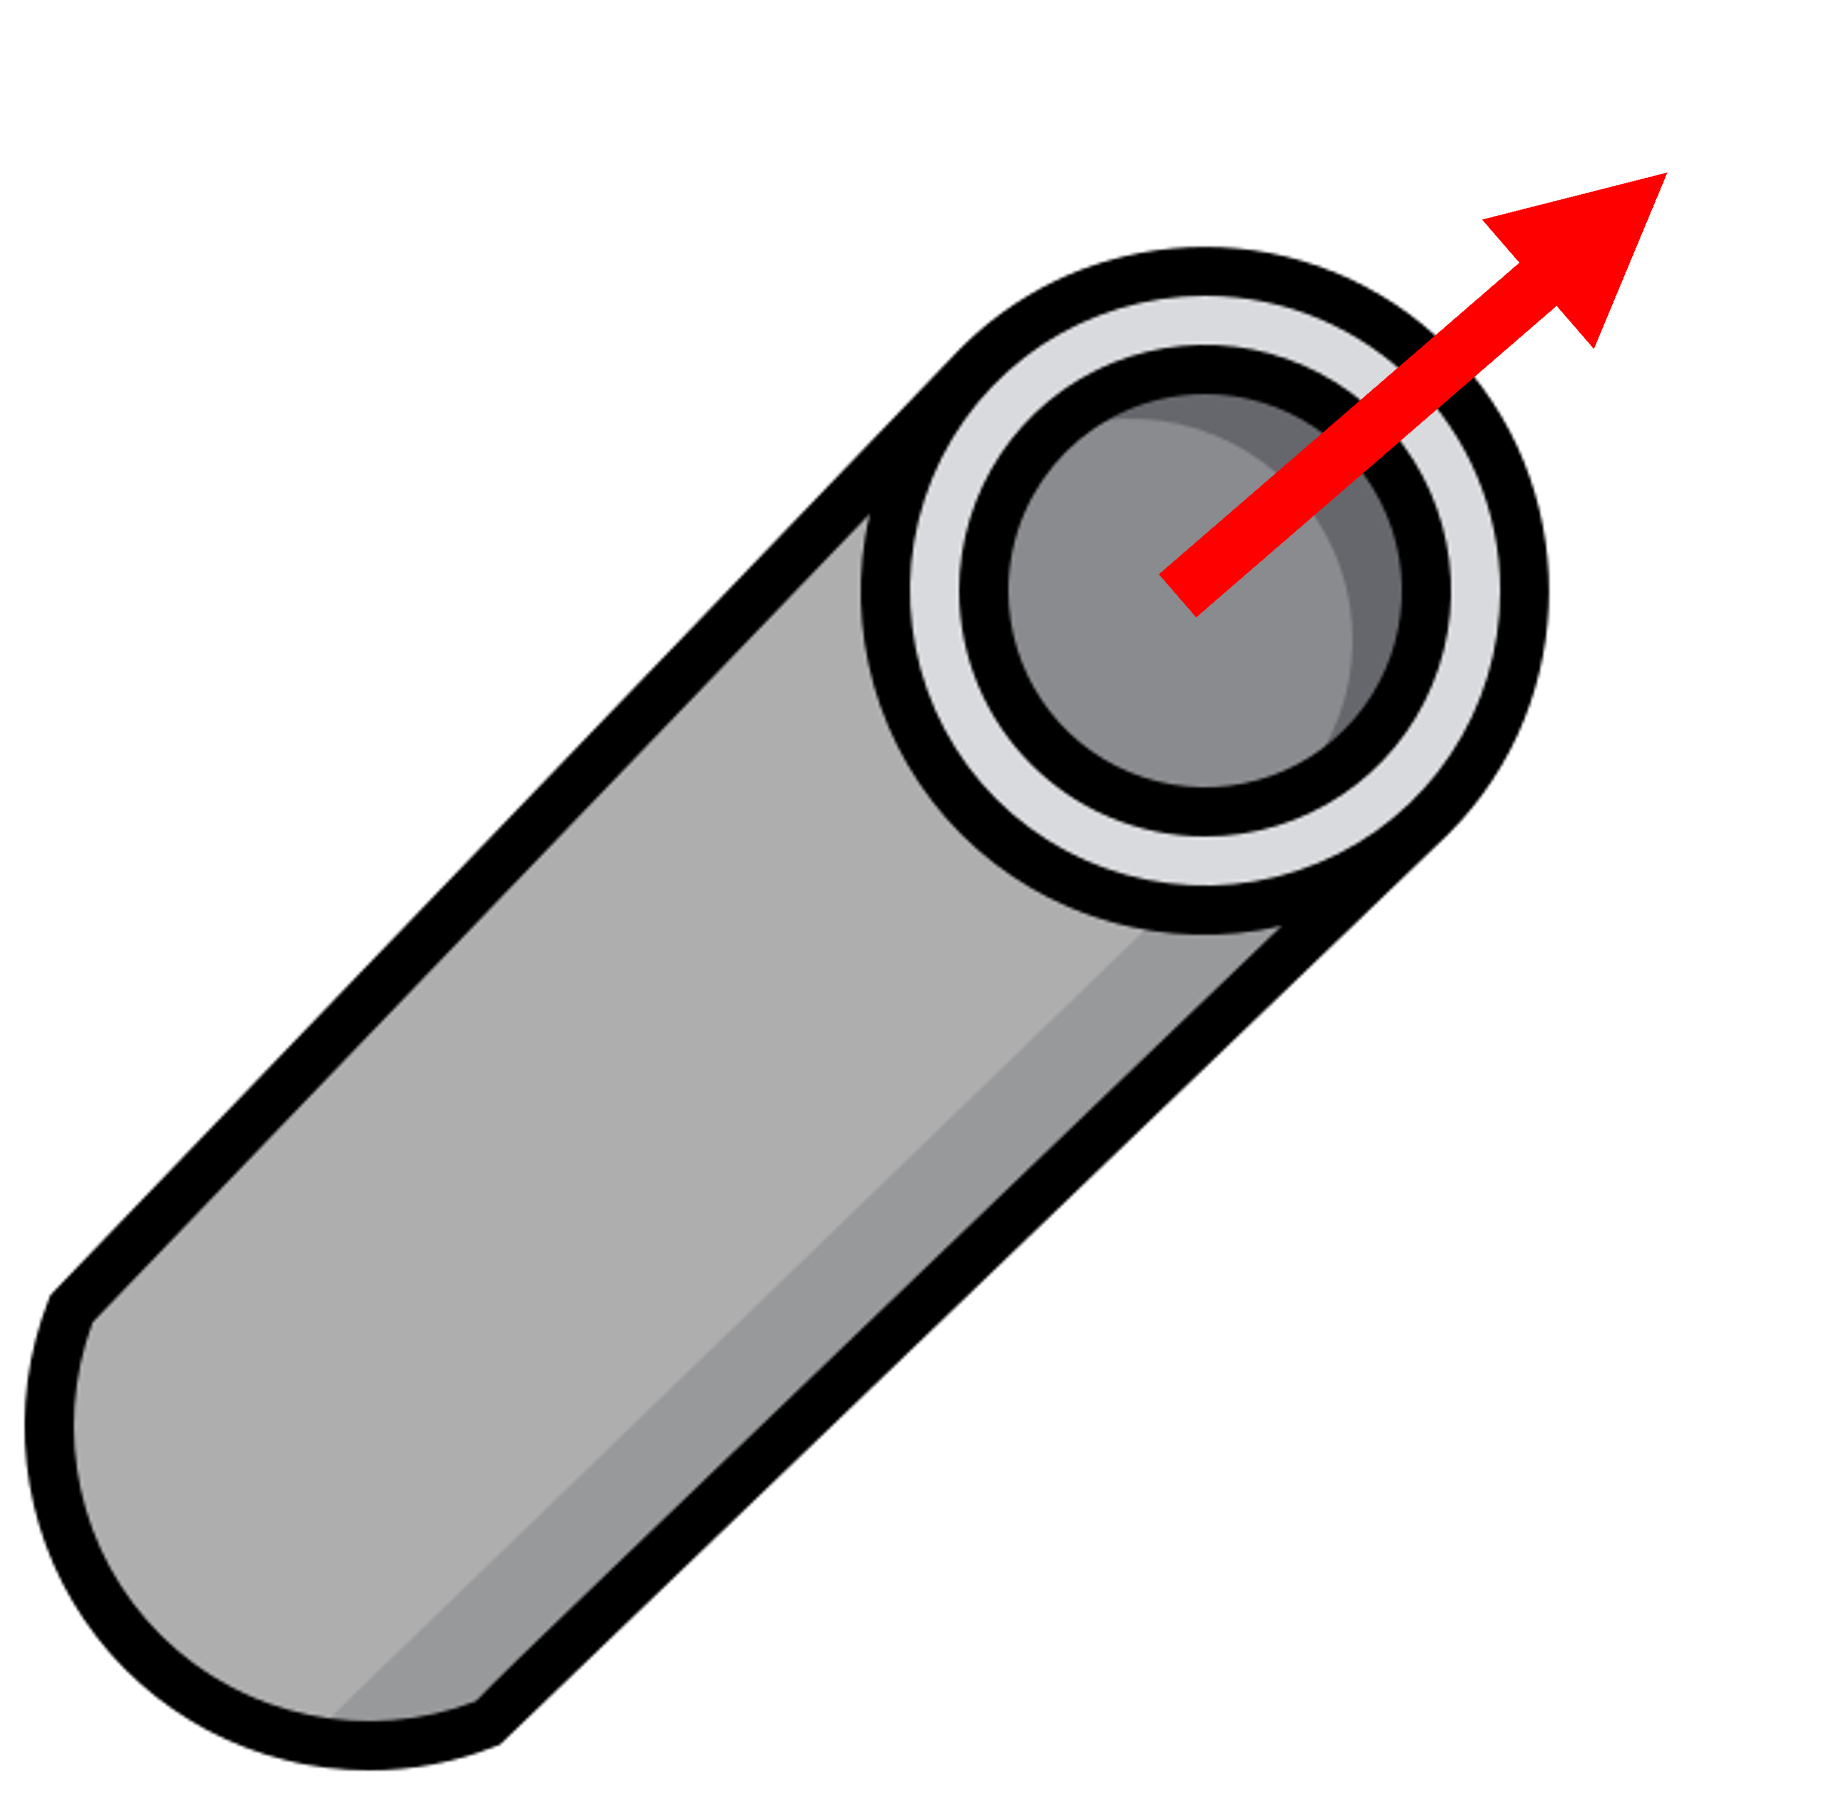
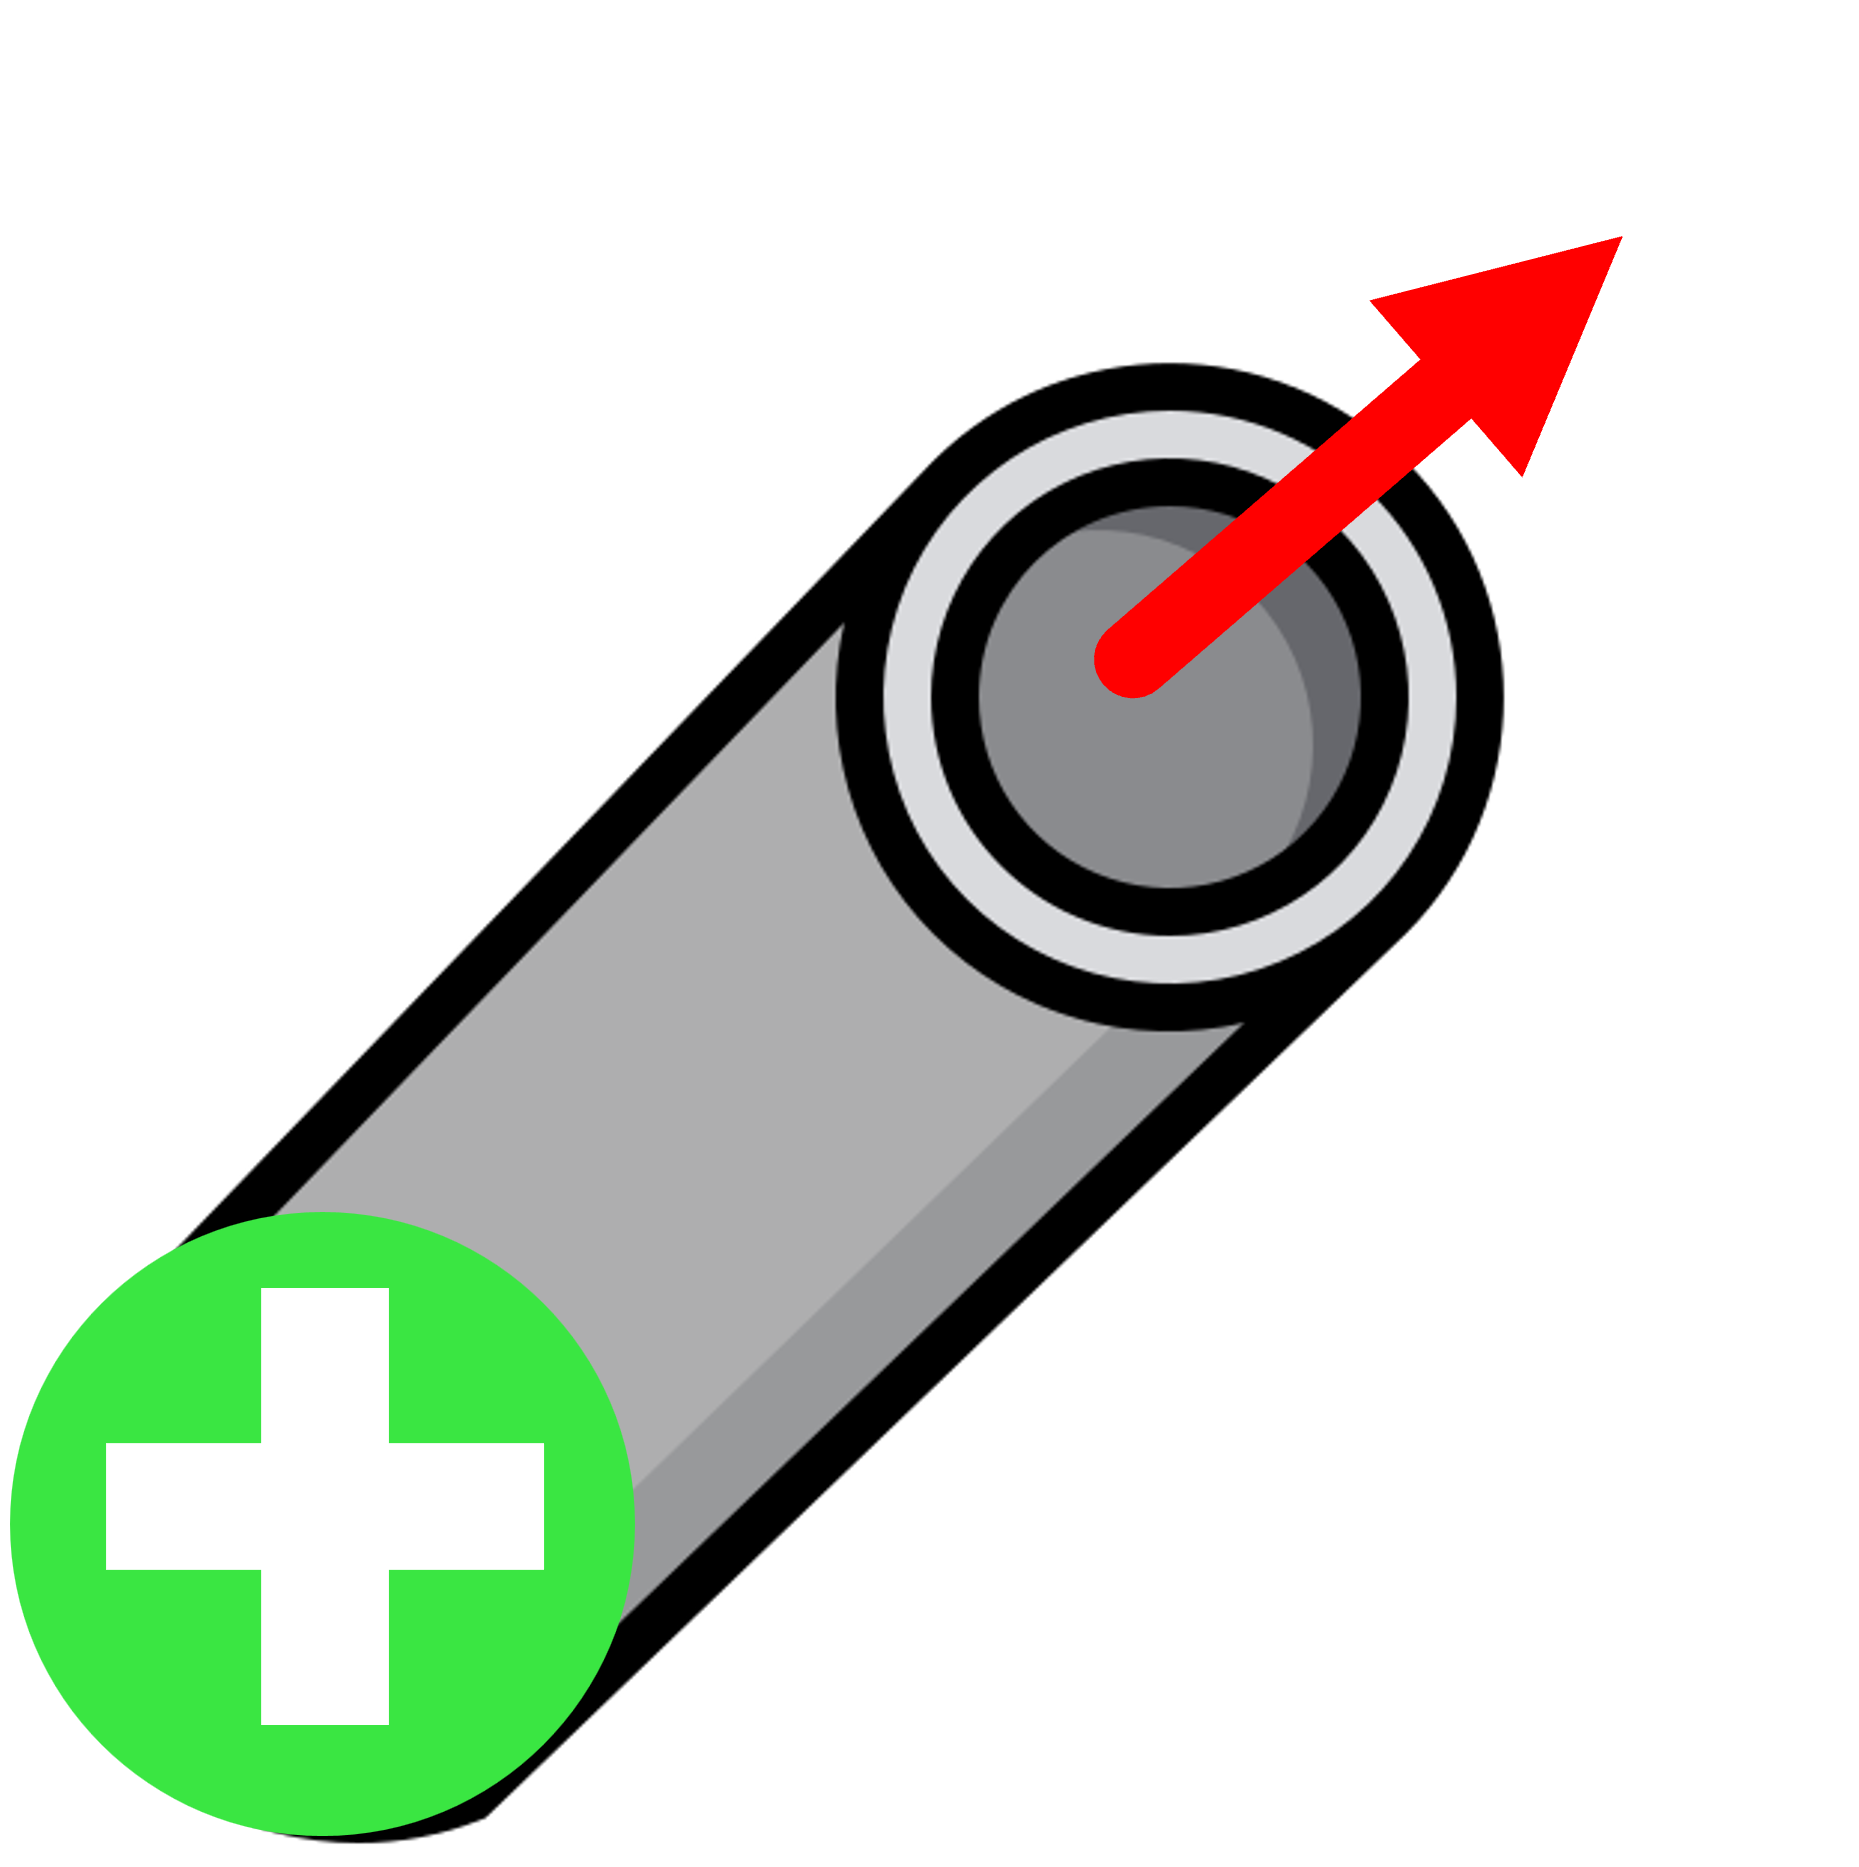
RLS_0.26.0

diff --git a/MyCAM/StartupForm.Designer.cs b/MyCAM/StartupForm.Designer.cs
@@ -64,6 +64,7 @@
 			this.m_tsbReadProjectFile = new System.Windows.Forms.ToolStripButton();
 			this.m_tsbSaveProjectFile = new System.Windows.Forms.ToolStripButton();
 			this.m_tsbAddTube = new System.Windows.Forms.ToolStripButton();
+			this.m_tsbAddRevolution = new System.Windows.Forms.ToolStripButton();
 			this.m_tsCADFunction = new System.Windows.Forms.ToolStrip();
 			this.m_tsbSewPart = new System.Windows.Forms.ToolStripButton();
 			this.m_tsbAddPoint_AcrCenter = new System.Windows.Forms.ToolStripButton();
@@ -127,7 +128,6 @@
 			this.m_tsbShowTraverse = new System.Windows.Forms.ToolStripButton();
 			this.m_panBackGround = new System.Windows.Forms.TableLayoutPanel();
 			this.contextMenuStrip1 = new System.Windows.Forms.ContextMenuStrip(this.components);
-			this.m_tsbAddRevolution = new System.Windows.Forms.ToolStripButton();
 			this.m_msMode.SuspendLayout();
 			this.m_tsCAMFunction.SuspendLayout();
 			this.m_tscLevel1Container.ContentPanel.SuspendLayout();
@@ -497,10 +497,10 @@
 			this.m_tsFileFunction.ImageScalingSize = new System.Drawing.Size(40, 40);
 			this.m_tsFileFunction.Items.AddRange(new System.Windows.Forms.ToolStripItem[] {
             this.m_tsbImport3DFile,
+            this.m_tsbAddRevolution,
             this.m_tsbReadProjectFile,
             this.m_tsbSaveProjectFile,
-            this.m_tsbAddTube,
-            this.m_tsbAddRevolution});
+            this.m_tsbAddTube});
 			this.m_tsFileFunction.Location = new System.Drawing.Point(0, 0);
 			this.m_tsFileFunction.Name = "m_tsFileFunction";
 			this.m_tsFileFunction.Size = new System.Drawing.Size(1596, 50);
@@ -550,6 +550,16 @@
 			this.m_tsbAddTube.TextImageRelation = System.Windows.Forms.TextImageRelation.ImageAboveText;
 			this.m_tsbAddTube.ToolTipText = "設計管件";
 			this.m_tsbAddTube.Click += new System.EventHandler(this.m_tsbAddTube_Click);
+			// 
+			// m_tsbAddRevolution
+			// 
+			this.m_tsbAddRevolution.Image = global::MyCAM.Properties.Resources.CAD_Revolution;
+			this.m_tsbAddRevolution.ImageTransparentColor = System.Drawing.Color.Magenta;
+			this.m_tsbAddRevolution.Name = "m_tsbAddRevolution";
+			this.m_tsbAddRevolution.Size = new System.Drawing.Size(47, 47);
+			this.m_tsbAddRevolution.Text = "迴轉體";
+			this.m_tsbAddRevolution.TextImageRelation = System.Windows.Forms.TextImageRelation.ImageAboveText;
+			this.m_tsbAddRevolution.Click += new System.EventHandler(this.m_tsbAddRevolution_Click);
 			// 
 			// m_tsCADFunction
 			// 
@@ -1303,16 +1313,6 @@
 			this.contextMenuStrip1.Name = "contextMenuStrip1";
 			this.contextMenuStrip1.Size = new System.Drawing.Size(61, 4);
 			// 
-			// m_tsbAddRevolution
-			// 
-			this.m_tsbAddRevolution.Image = global::MyCAM.Properties.Resources.CAD_Revolution;
-			this.m_tsbAddRevolution.ImageTransparentColor = System.Drawing.Color.Magenta;
-			this.m_tsbAddRevolution.Name = "m_tsbAddRevolution";
-			this.m_tsbAddRevolution.Size = new System.Drawing.Size(47, 47);
-			this.m_tsbAddRevolution.Text = "迴轉體";
-			this.m_tsbAddRevolution.TextImageRelation = System.Windows.Forms.TextImageRelation.ImageAboveText;
-			this.m_tsbAddRevolution.Click += new System.EventHandler(this.m_tsbAddRevolution_Click);
-			// 
 			// StartupForm
 			// 
 			this.AutoScaleMode = System.Windows.Forms.AutoScaleMode.None;
@@ -1327,7 +1327,7 @@
 			this.MainMenuStrip = this.m_msMode;
 			this.Margin = new System.Windows.Forms.Padding(4);
 			this.Name = "StartupForm";
-			this.Text = "新代激光五軸切割 0.25.0";
+			this.Text = "新代激光五軸切割 0.26.0";
 			this.FormClosing += new System.Windows.Forms.FormClosingEventHandler(this.StartupForm_FormClosing);
 			this.Resize += new System.EventHandler(this.StartupForm_Resize);
 			this.m_msMode.ResumeLayout(false);

diff --git a/MyCAM/Properties/AssemblyInfo.cs b/MyCAM/Properties/AssemblyInfo.cs
@@ -28,5 +28,5 @@ using System.Runtime.InteropServices;
 //      Build Number
 //      Revision
 //
-[assembly: AssemblyVersion( "0.25.0.0" )]
-[assembly: AssemblyFileVersion( "0.25.0.0" )]
+[assembly: AssemblyVersion( "0.26.0.0" )]
+[assembly: AssemblyFileVersion( "0.26.0.0" )]
